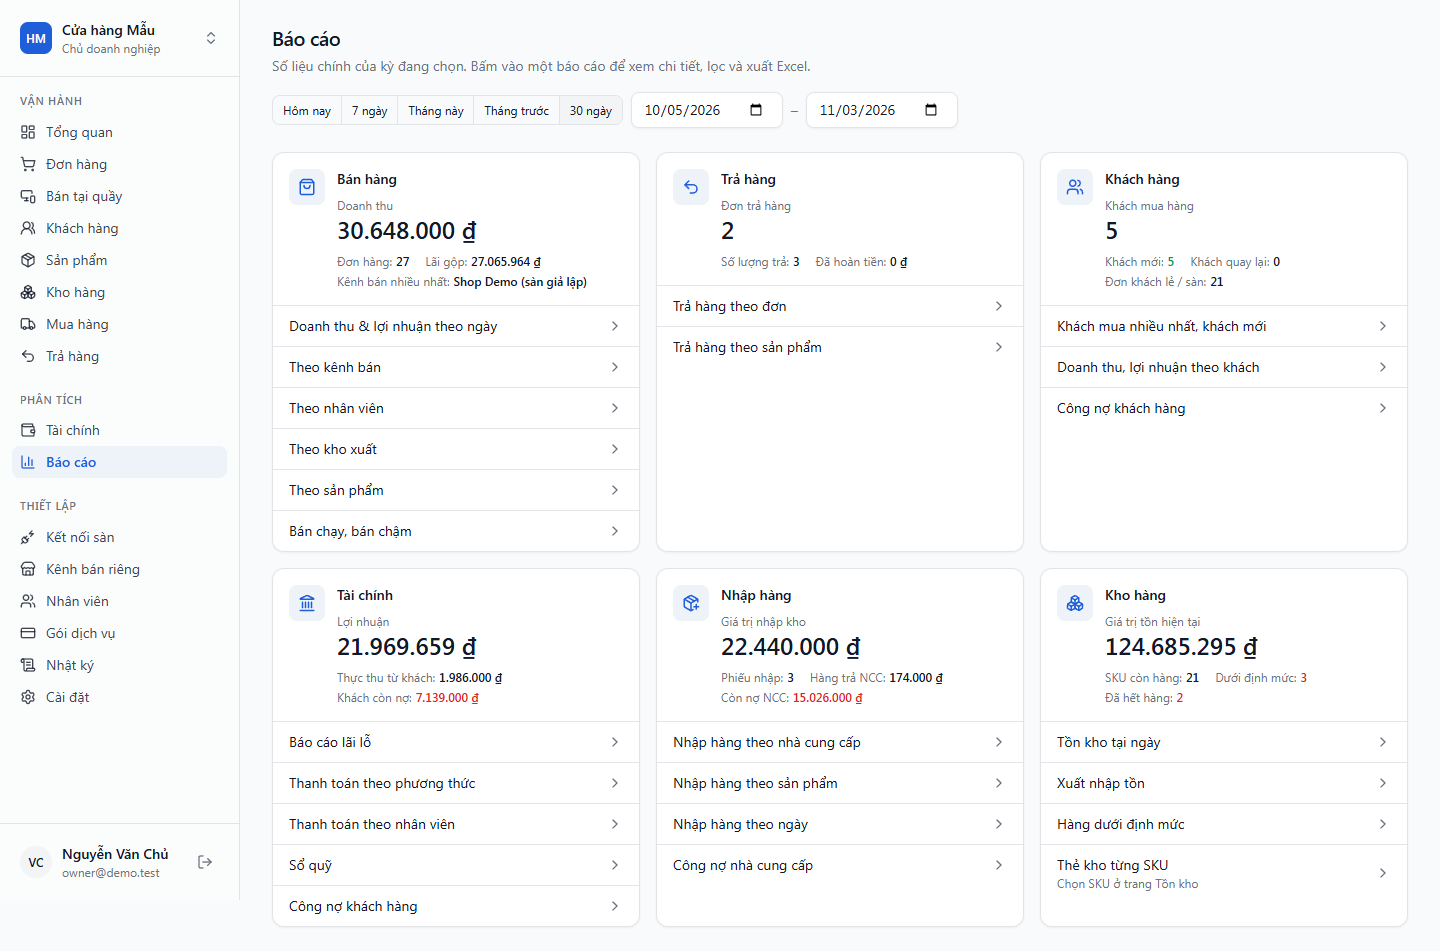
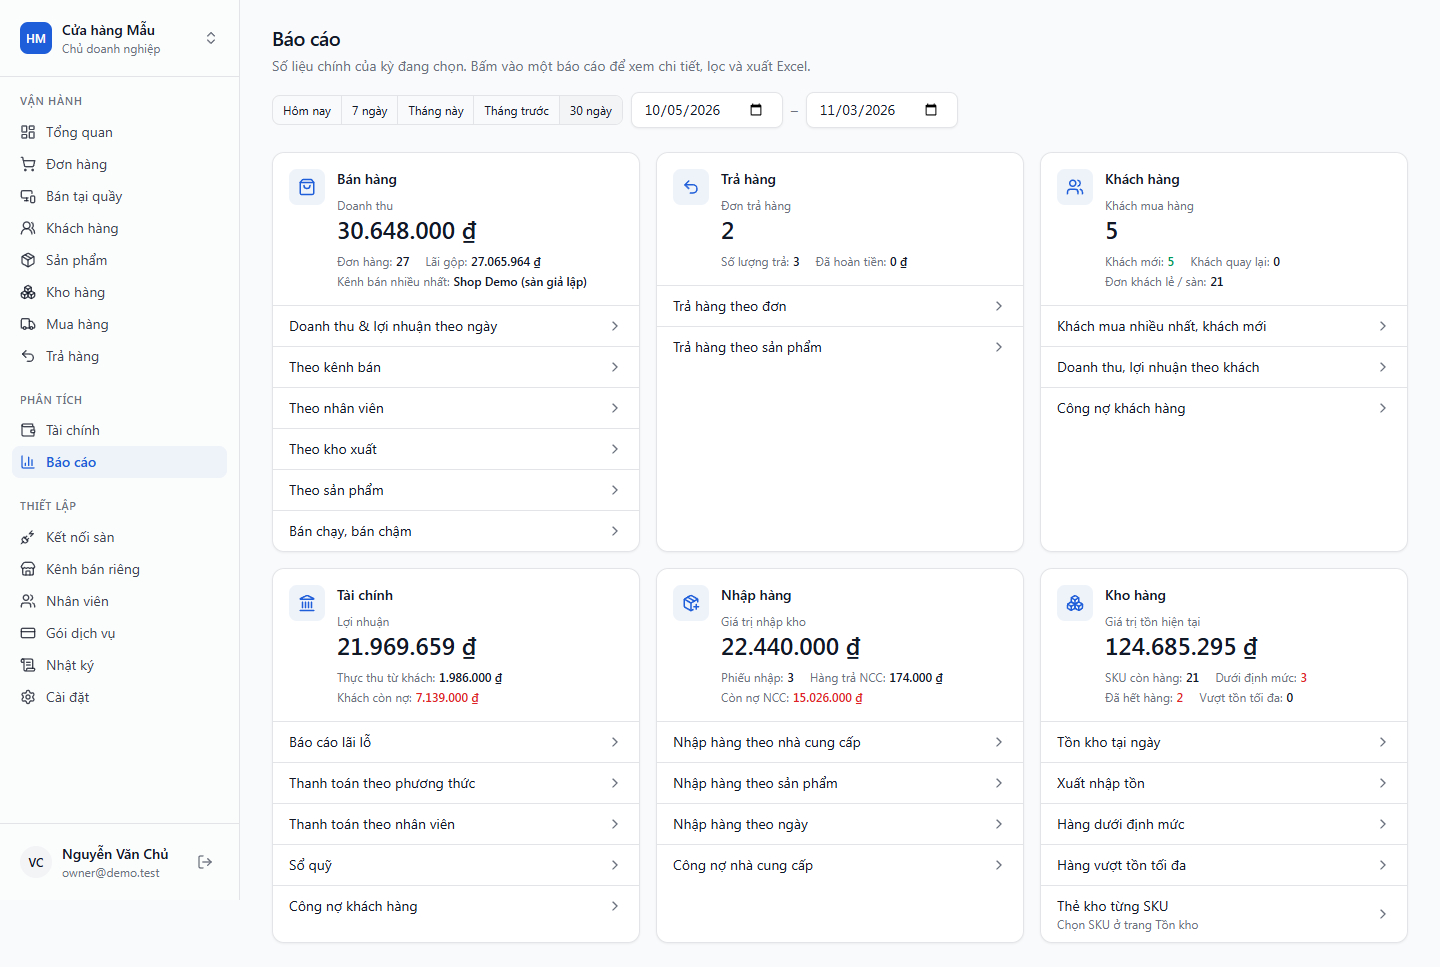
Report centre: over-stock report (SKUs above their maximum stock)

diff --git a/resources/js/apps/tenant/pages/reports/catalog.ts b/resources/js/apps/tenant/pages/reports/catalog.ts
@@ -232,6 +232,31 @@ export const reports: Record<string, DetailReport> = {
             { key: 'days_left', label: 'Đủ bán', value: (r) => (r.days_left === null ? '—' : `${r.days_left} ngày`) },
         ],
     },
+    'over-stock': {
+        key: 'over-stock',
+        title: 'Hàng vượt tồn tối đa',
+        description: 'SKU đang tồn nhiều hơn mức tối đa đã đặt cho kho, và số tiền đang nằm ở phần dư.',
+        endpoint: '/reports/over-stock',
+        permission: 'inventory.view',
+        period: 'none',
+        warehouse: true,
+        empty: 'Không có SKU nào vượt tồn tối đa. Đặt tồn tối đa ở trang chi tiết sản phẩm, theo từng kho.',
+        kpis: (d) => [
+            { label: 'SKU vượt mức', value: d.totals.skus, type: 'number' },
+            { label: 'Số lượng dư', value: d.totals.excess, type: 'number' },
+            { label: 'Giá trị hàng dư', value: d.totals.excess_value, type: 'money' },
+        ],
+        columns: () => [
+            { key: 'variant', label: 'Sản phẩm', value: variant, sub: variantSku, link: variantLink },
+            { key: 'warehouse', label: 'Kho', value: (r) => r.warehouse.name },
+            { key: 'on_hand', label: 'Tồn thực', type: 'number' },
+            { key: 'max_stock', label: 'Tồn tối đa', type: 'number' },
+            { key: 'excess', label: 'Dư', type: 'number', total: true, tone: () => 'danger' },
+            { key: 'excess_value', label: 'Giá trị dư', type: 'money', total: true },
+            { key: 'sold_30d', label: 'Bán 30 ngày', type: 'number' },
+            { key: 'days_left', label: 'Đủ bán', value: (r) => (r.days_left === null ? 'Không bán' : `${r.days_left} ngày`) },
+        ],
+    },
     receivables: {
         key: 'receivables',
         title: 'Công nợ khách hàng',

diff --git a/resources/js/apps/tenant/router.ts b/resources/js/apps/tenant/router.ts
@@ -70,7 +70,7 @@ const routes: RouteRecordRaw[] = [
             { path: 'reports', name: 'reports', component: () => import('./pages/reports/ReportsHome.vue'), meta: { permission: 'reports.view', nav: 'reports' } },
             { path: 'reports/sales', name: 'report-sales', component: () => import('./pages/reports/SalesReport.vue'), meta: { permission: 'reports.view', nav: 'reports' } },
             { path: 'reports/profit-loss', name: 'report-profit-loss', component: () => import('./pages/reports/ProfitLoss.vue'), meta: { permission: 'finance.view', nav: 'reports' } },
-            { path: 'reports/view/:report(product-sales|returns|payments|purchases|customers|stock-on-hand|low-stock|receivables|payables)', name: 'report-detail', component: () => import('./pages/reports/DetailReport.vue'), meta: { permission: 'reports.view', nav: 'reports' } },
+            { path: 'reports/view/:report(product-sales|returns|payments|purchases|customers|stock-on-hand|low-stock|over-stock|receivables|payables)', name: 'report-detail', component: () => import('./pages/reports/DetailReport.vue'), meta: { permission: 'reports.view', nav: 'reports' } },
             { path: 'reports/stock', name: 'report-stock', component: () => import('./pages/reports/StockLedgerReport.vue'), meta: { permission: 'inventory.view', nav: 'reports' } },
             { path: 'reports/cashbook', name: 'report-cashbook', component: () => import('./pages/reports/Cashbook.vue'), meta: { permission: 'finance.view', nav: 'reports' } },
             { path: 'reports/products', name: 'report-products', component: () => import('./pages/reports/ProductReports.vue'), meta: { permission: 'reports.view', nav: 'reports' } },

diff --git a/resources/js/apps/tenant/pages/reports/ReportsHome.vue b/resources/js/apps/tenant/pages/reports/ReportsHome.vue
@@ -157,11 +157,13 @@ const groups = computed<Group[]>(() => {
                 { label: 'SKU còn hàng', value: formatNumber(d.stock.skus) },
                 { label: 'Dưới định mức', value: formatNumber(d.stock.low.skus), tone: d.stock.low.skus ? 'danger' : undefined },
                 { label: 'Đã hết hàng', value: formatNumber(d.stock.low.out_of_stock), tone: d.stock.low.out_of_stock ? 'danger' : undefined },
+                { label: 'Vượt tồn tối đa', value: formatNumber(d.stock.over.skus) },
             ],
             links: [
                 { label: 'Tồn kho tại ngày', to: detail('stock-on-hand', {}, false) },
                 { label: 'Xuất nhập tồn', to: { name: 'report-stock' } },
                 { label: 'Hàng dưới định mức', to: detail('low-stock', {}, false) },
+                { label: 'Hàng vượt tồn tối đa', to: detail('over-stock', {}, false) },
                 { label: 'Thẻ kho từng SKU', to: { name: 'inventory' }, hint: 'Chọn SKU ở trang Tồn kho' },
             ],
         });

diff --git a/e2e/reports.spec.ts b/e2e/reports.spec.ts
@@ -95,6 +95,7 @@ test('report centre: every group opens its detail reports on the same period', a
     for (const [report, name, query] of [
         ['stock-on-hand', '05-stock-on-hand', ''],
         ['low-stock', '06-low-stock', ''],
+        ['over-stock', '06b-over-stock', ''],
         ['purchases', '07-purchases-by-supplier', '?by=supplier'],
         ['payables', '08-supplier-debts', ''],
         ['payments', '09-payments-by-method', '?by=method'],

diff --git a/app/Modules/Analytics/Services/StockReports.php b/app/Modules/Analytics/Services/StockReports.php
@@ -6,7 +6,7 @@ use App\Modules\Tenancy\Support\TenantContext;
 use Carbon\CarbonImmutable;
 use Illuminate\Support\Facades\DB;
 
-/** Stock on hand at any past date (rebuilt from the movement ledger) and SKUs at or below their safety stock. */
+/** Stock on hand at any past date (rebuilt from the movement ledger) and SKUs outside their safety and maximum stock. */
 class StockReports
 {
     public function __construct(private readonly TenantContext $context) {}
@@ -94,12 +94,7 @@ class StockReports
      */
     public function lowStock(?int $warehouseId = null): array
     {
-        $since = CarbonImmutable::now()->subDays(30);
-        $sold = DB::table('stock_movements')->where('tenant_id', $this->tenant())->where('created_at', '>=', $since)
-            ->whereIn('type', BusinessReports::STOCK_COLUMNS['sale_out'])
-            ->when($warehouseId, fn ($w) => $w->where('warehouse_id', $warehouseId))
-            ->groupBy('product_variant_id', 'warehouse_id')
-            ->selectRaw('product_variant_id, warehouse_id, -SUM(on_hand_delta) as units');
+        $sold = $this->soldLast30Days($warehouseId);
 
         $rows = DB::table('stock_balances as b')
             ->join('warehouses as w', 'w.id', '=', 'b.warehouse_id')
@@ -136,6 +131,56 @@ class StockReports
             'rows' => $rows,
             'totals' => ['skus' => count($rows), 'out_of_stock' => count(array_filter($rows, fn ($r) => $r['out_of_stock']))],
         ];
+    }
+
+    /**
+     * Balances holding more than the maximum stock set for them: the excess and the money it ties up.
+     *
+     * @return array<string, mixed>
+     */
+    public function overStock(?int $warehouseId = null): array
+    {
+        $rows = DB::table('stock_balances as b')
+            ->join('warehouses as w', 'w.id', '=', 'b.warehouse_id')
+            ->join('product_variants as v', 'v.id', '=', 'b.product_variant_id')
+            ->join('products as p', 'p.id', '=', 'v.product_id')
+            ->leftJoinSub($this->soldLast30Days($warehouseId), 's', fn ($j) => $j->on('s.product_variant_id', '=', 'b.product_variant_id')->on('s.warehouse_id', '=', 'b.warehouse_id'))
+            ->where('b.tenant_id', $this->tenant())
+            ->whereNotNull('b.max_stock')
+            ->whereRaw('b.on_hand > CAST(b.max_stock AS SIGNED)')
+            ->when($warehouseId, fn ($w) => $w->where('b.warehouse_id', $warehouseId))
+            ->limit(2000)
+            ->get(['v.ulid', 'v.sku', 'v.name as variant_name', 'v.cost_price', 'p.name as product_name', 'w.ulid as warehouse_id', 'w.name as warehouse', 'b.on_hand', 'b.max_stock', 's.units'])
+            ->map(function ($r) {
+                $excess = (int) $r->on_hand - (int) $r->max_stock;
+                $sold = (int) ($r->units ?? 0);
+
+                return [
+                    'variant' => ['id' => $r->ulid, 'sku' => $r->sku, 'name' => trim($r->product_name.($r->variant_name ? ' - '.$r->variant_name : ''))],
+                    'warehouse' => ['id' => $r->warehouse_id, 'name' => $r->warehouse],
+                    'on_hand' => (int) $r->on_hand,
+                    'max_stock' => (int) $r->max_stock,
+                    'excess' => $excess,
+                    'excess_value' => round($excess * (float) $r->cost_price, 2),
+                    'sold_30d' => $sold,
+                    'days_left' => $sold > 0 ? round((int) $r->on_hand / ($sold / 30), 1) : null,
+                ];
+            })->sortByDesc('excess_value')->values()->all();
+
+        return [
+            'rows' => $rows,
+            'totals' => ['skus' => count($rows), 'excess' => array_sum(array_column($rows, 'excess')), 'excess_value' => round(array_sum(array_column($rows, 'excess_value')), 2)],
+        ];
+    }
+
+    /** Units shipped per SKU and warehouse in the last 30 days, as a subquery. */
+    private function soldLast30Days(?int $warehouseId)
+    {
+        return DB::table('stock_movements')->where('tenant_id', $this->tenant())->where('created_at', '>=', CarbonImmutable::now()->subDays(30))
+            ->whereIn('type', BusinessReports::STOCK_COLUMNS['sale_out'])
+            ->when($warehouseId, fn ($w) => $w->where('warehouse_id', $warehouseId))
+            ->groupBy('product_variant_id', 'warehouse_id')
+            ->selectRaw('product_variant_id, warehouse_id, -SUM(on_hand_delta) as units');
     }
 
     private function tenant(): int

diff --git a/app/Modules/Analytics/Http/Controllers/ReportsController.php b/app/Modules/Analytics/Http/Controllers/ReportsController.php
@@ -49,7 +49,7 @@ class ReportsController extends Controller
             $data['payable'] = $ledger->payables()['totals'];
         }
         if ($this->context->can('inventory.view')) {
-            $data['stock'] = [...$stock->onHand($to)['totals'], 'low' => $stock->lowStock()['totals']];
+            $data['stock'] = [...$stock->onHand($to)['totals'], 'low' => $stock->lowStock()['totals'], 'over' => $stock->overStock()['totals']];
         }
 
         return response()->json(['data' => $data]);
@@ -116,6 +116,14 @@ class ReportsController extends Controller
         $warehouse = $request->validate(['warehouse' => ['nullable', 'string']])['warehouse'] ?? null;
 
         return response()->json(['data' => $stock->lowStock($this->warehouse($warehouse))]);
+    }
+
+    public function overStock(Request $request, StockReports $stock): JsonResponse
+    {
+        $this->allow('inventory.view');
+        $warehouse = $request->validate(['warehouse' => ['nullable', 'string']])['warehouse'] ?? null;
+
+        return response()->json(['data' => $stock->overStock($this->warehouse($warehouse))]);
     }
 
     public function profitLoss(Request $request, LedgerReports $ledger): JsonResponse

diff --git a/tests/Feature/Analytics/ReportCentreTest.php b/tests/Feature/Analytics/ReportCentreTest.php
@@ -107,6 +107,10 @@ it('reports purchases, supplier debts, stock on any date and SKUs below safety s
     $low = $api->getJson('/api/v1/reports/low-stock')->assertOk()->json('data');
     expect($low['rows'][0])->toMatchArray(['available' => 10, 'safety_stock' => 15, 'shortfall' => 5, 'sold_30d' => 0, 'days_left' => null, 'out_of_stock' => false]);
 
+    $api->getJson('/api/v1/reports/over-stock')->assertOk()->assertJsonCount(0, 'data.rows');
+    $api->putJson("/api/v1/inventory/variants/{$variant->ulid}/location", ['warehouse' => defaultWarehouse($tenant)->ulid, 'max_stock' => 4])->assertOk();
+    expect($api->getJson('/api/v1/reports/over-stock')->assertOk()->json('data.rows.0'))->toMatchArray(['on_hand' => 10, 'max_stock' => 4, 'excess' => 6, 'excess_value' => 360000]);
+
     $overview = $api->getJson('/api/v1/reports/overview')->assertOk()->json('data');
     expect($overview['purchases']['value'])->toEqual(600000)
         ->and($overview['payable']['debt'])->toEqual(600000)

diff --git a/app/Modules/Analytics/Routes/api.php b/app/Modules/Analytics/Routes/api.php
@@ -20,6 +20,7 @@ Route::middleware(['auth:sanctum', 'verified', 'tenant'])->group(function () {
     Route::get('reports/customers', [ReportsController::class, 'customers']);
     Route::get('reports/stock-on-hand', [ReportsController::class, 'stockOnHand']);
     Route::get('reports/low-stock', [ReportsController::class, 'lowStock']);
+    Route::get('reports/over-stock', [ReportsController::class, 'overStock']);
     Route::get('reports/profit-loss', [ReportsController::class, 'profitLoss']);
     Route::get('reports/receivables', [ReportsController::class, 'receivables']);
     Route::get('reports/payables', [ReportsController::class, 'payables']);

diff --git a/docs/CHANGELOG.md b/docs/CHANGELOG.md
@@ -6,11 +6,11 @@
 
 ### Trung tâm báo cáo (2026-11-03)
 - `/reports` thành trang tổng hợp: 6 nhóm (Bán hàng, Trả hàng, Khách hàng, Tài chính, Nhập hàng, Kho hàng), mỗi nhóm có số chính của kỳ và danh sách báo cáo chi tiết. Nhóm chỉ hiện với người có quyền tương ứng.
-- Báo cáo mới: bán hàng theo sản phẩm / khách hàng / kho; trả hàng theo đơn và theo sản phẩm; thanh toán của khách theo phương thức / nhân viên / ngày; nhập hàng theo nhà cung cấp / sản phẩm / ngày; khách mua hàng (khách mới, quay lại); tồn kho tại một ngày bất kỳ theo từng kho; hàng dưới định mức (kèm số bán 30 ngày, số ngày còn đủ bán); công nợ khách hàng; công nợ nhà cung cấp.
+- Báo cáo mới: bán hàng theo sản phẩm / khách hàng / kho; trả hàng theo đơn và theo sản phẩm; thanh toán của khách theo phương thức / nhân viên / ngày; nhập hàng theo nhà cung cấp / sản phẩm / ngày; khách mua hàng (khách mới, quay lại); tồn kho tại một ngày bất kỳ theo từng kho; hàng dưới định mức (kèm số bán 30 ngày, số ngày còn đủ bán); hàng vượt tồn tối đa (số dư, giá trị dư); công nợ khách hàng; công nợ nhà cung cấp.
 - Báo cáo lãi lỗ (`/reports/profit-loss`): doanh thu thuần, giá vốn, lợi nhuận gộp, hao hụt kho, lợi nhuận; đặt cạnh kỳ trước cùng số ngày và % thay đổi; bấm dòng để xem chi tiết.
 - Kỳ báo cáo, tab và bộ lọc nằm trên URL: mở báo cáo từ trang tổng hợp giữ nguyên kỳ đang xem, có thể lưu hoặc gửi link. Mọi báo cáo xuất CSV mở được bằng Excel.
 - Báo cáo bán hàng & lợi nhuận chuyển sang `/reports/sales`.
-- API: `GET /reports/{overview,product-sales,returns,payments,purchases,customers,stock-on-hand,low-stock,profit-loss,receivables,payables}`.
+- API: `GET /reports/{overview,product-sales,returns,payments,purchases,customers,stock-on-hand,low-stock,over-stock,profit-loss,receivables,payables}`.
 
 ### Khách hàng — nhóm, hồ sơ, bộ lọc, công nợ, nhập/xuất (2026-11-03)
 - Nhóm khách hàng thành danh mục riêng (`/customers/groups`): mã, tên, mô tả, giá áp dụng (lẻ/buôn), chiết khấu %, cách thanh toán quen dùng, số khách mỗi nhóm. Nhóm chữ cũ được chuyển tự động.
